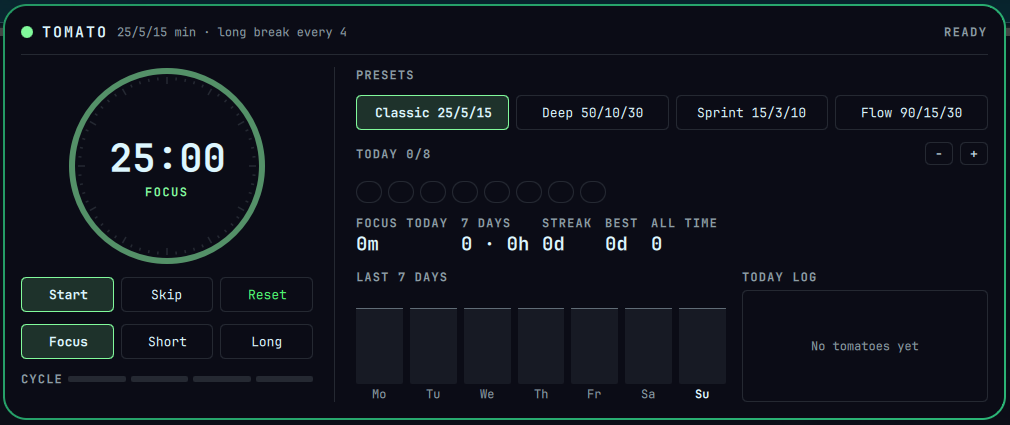
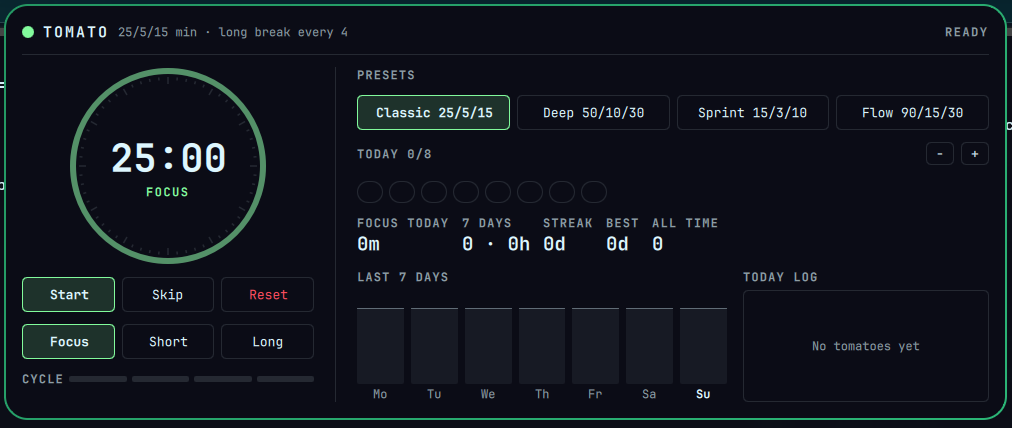
fix: Tomato uses fixed red #ff4d5e for Reset and errors, not Color.urgent
WHAT: Reset chip, header error text and bar error ring now use #ff4d5e.
WHY: On gus's current theme Color.urgent resolves to green (theme red is
#50f872), so the destructive Reset button rendered green. Re-shot the live
panel and bar screenshots on gus after the change.
TAGS: omarchy, plugin, tomato, theme, colour, urgent

LR-T: omarchy-plugin tomato colour
LR-D: fixed red for danger, theme urgent is unreliable
LR-K: nixfred.tomato Color.urgent green

Claude-Session: https://claude.ai/code/session_01Fu6MCiLChCtwP22GT3Yy5A

diff --git a/TomatoPanel.qml b/TomatoPanel.qml
@@ -59,7 +59,7 @@ Panel {
     Text {
       anchors.centerIn: parent
       text: chip.label
-      color: chip.danger ? Color.urgent : panel.fg
+      color: chip.danger ? "#ff4d5e" : panel.fg
       font.family: panel.fontFamily
       font.pixelSize: Style.font.bodySmall
       font.bold: chip.selected
@@ -128,7 +128,7 @@ Panel {
             text: svc && svc.error ? svc.error
                   : ((st.focusMin || 25) + "/" + (st.shortMin || 5) + "/" + (st.longMin || 15)
                      + " min · long break every " + (st.longEvery || 4))
-            color: svc && svc.error ? Color.urgent : panel.dim
+            color: svc && svc.error ? "#ff4d5e" : panel.dim
             font.family: panel.fontFamily
             font.pixelSize: Style.font.caption
           }

diff --git a/BarWidget.qml b/BarWidget.qml
@@ -23,7 +23,7 @@ BarWidget {
   readonly property bool showMinutes: String(setting("showMinutes", true)) !== "false"
   readonly property color foreground: bar ? bar.foreground : Color.foreground
   readonly property color ringColor: {
-    if (svc && svc.error) return Color.urgent
+    if (svc && svc.error) return "#ff4d5e"
     if (phase !== "focus") return foreground
     return Color.accent
   }
